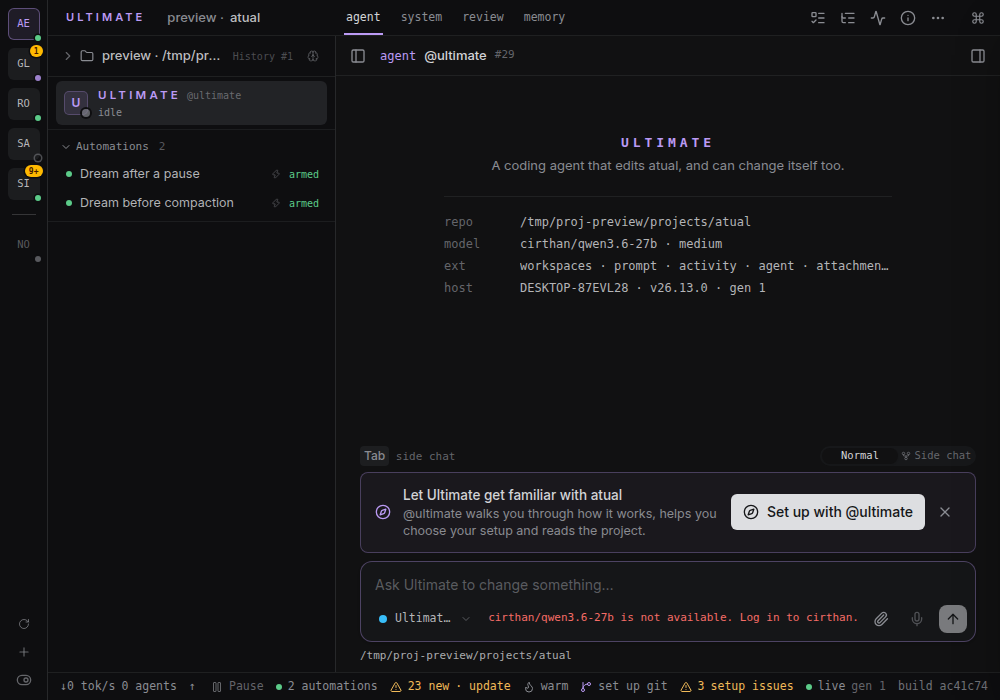
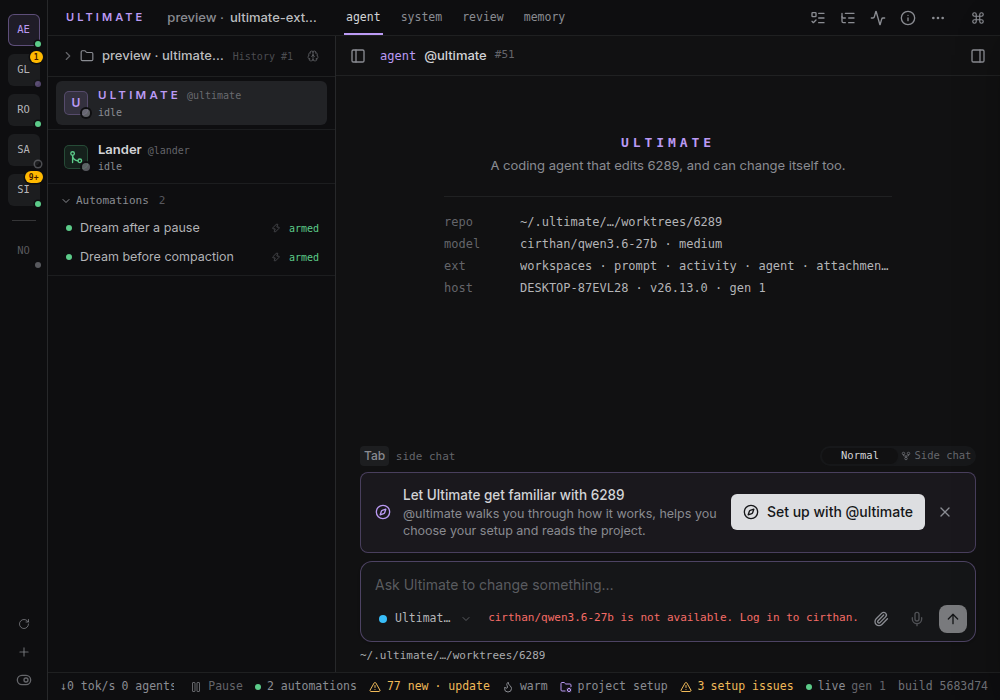
projects: keep room at the ends of the rail's column
The column that holds the tiles scrolls, and a scroll box clips what
leaves it. The question badge hangs 4px above its tile (plus a 1.5px
rail-coloured ring) and the presence dot 2px below, so on the first tile
of the column the badge was cut flat at the top edge — the box had no
room above it. The last tile's dot, with the list scrolled to the end,
sat on the bottom edge instead.

6px of padding at either end (`py-1.5`) is that room, and nothing else
moves: the rail stays 48px, the tiles 32px, the gap between them 8px, and
the badge keeps its 4px of overhang — the corner it shares with the dot
reads the same on every tile, first, middle and last.

The rail and state screenshots in the README are taken again over the
same demo, and the corner's bullet says where that room comes from.

diff --git a/projects/web.tsx b/projects/web.tsx
@@ -182,7 +182,11 @@ function Column() {
       data-projects-rail
       onPointerEnter={() => void readWave()}
     >
-      <div className="flex w-full min-h-0 flex-1 flex-col items-center gap-2 overflow-y-auto">
+      {/* The corners' indicators hang outside the tile — the question badge 4px above it, 1.5 more of
+          ring; the presence dot 2px below — and this box scrolls, so it clips what leaves it. The 6px
+          at either end is that room: without it the first tile's badge is cut flat at the top edge,
+          its ring gone, and the last tile's dot sits on the bottom edge. */}
+      <div className="flex w-full min-h-0 flex-1 flex-col items-center gap-2 overflow-y-auto py-1.5">
         {error ? (
           <button
             aria-label="The projects could not be read. Measure again"

diff --git a/projects/README.md b/projects/README.md
@@ -76,7 +76,10 @@ there —, so the rail and the sidebar speak the same visual language.
 
 - **The number does not cover the initials.** It sits in the top-right corner, in the gap between the
   tiles — which are spaced 8px apart for that reason —, with the rail-coloured ring separating it from
-  the background. A `9+` above ten is the limit: the exact number of 42 questions does not change the
+  the background. The ends of the column keep the same room: the box that scrolls clips what leaves
+  it, so it has 6px of padding above the first tile and below the last — the badge hangs 4px outside
+  its tile and the presence dot 2px, and without that room the first tile's badge is cut flat at the
+  top edge. A `9+` above ten is the limit: the exact number of 42 questions does not change the
   decision of whoever looks at the rail, and too wide a number would hide the project's name.
 - **Not answering is not idle.** A running host that did not answer within the deadline stays without
   pulse and without amber, with the hollow dot — the silence of a stuck host cannot be read as calm.
